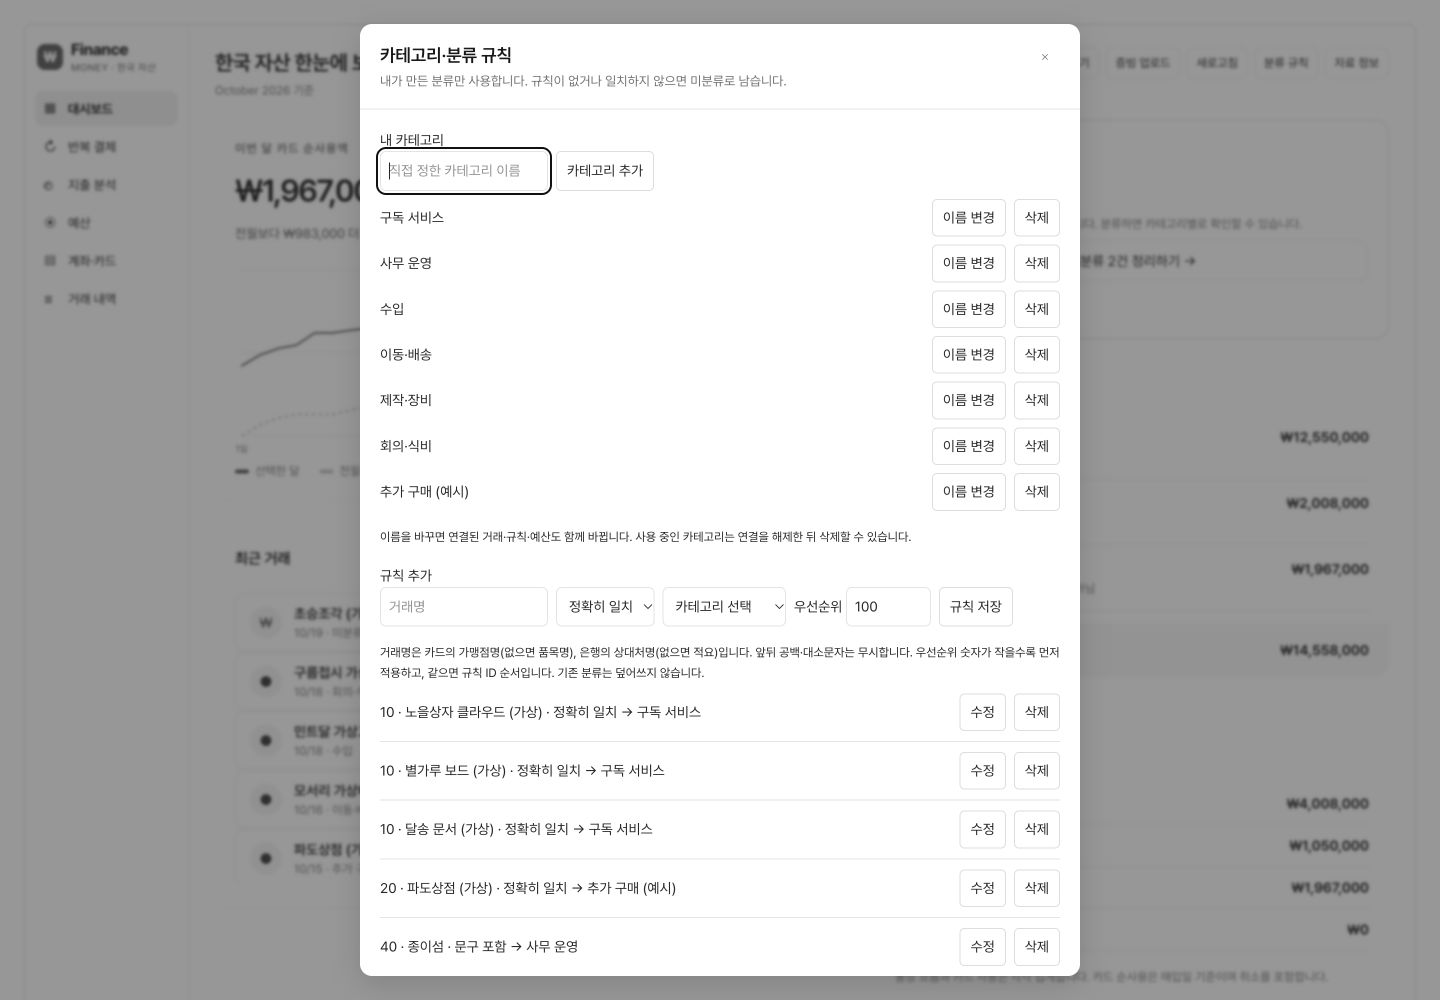
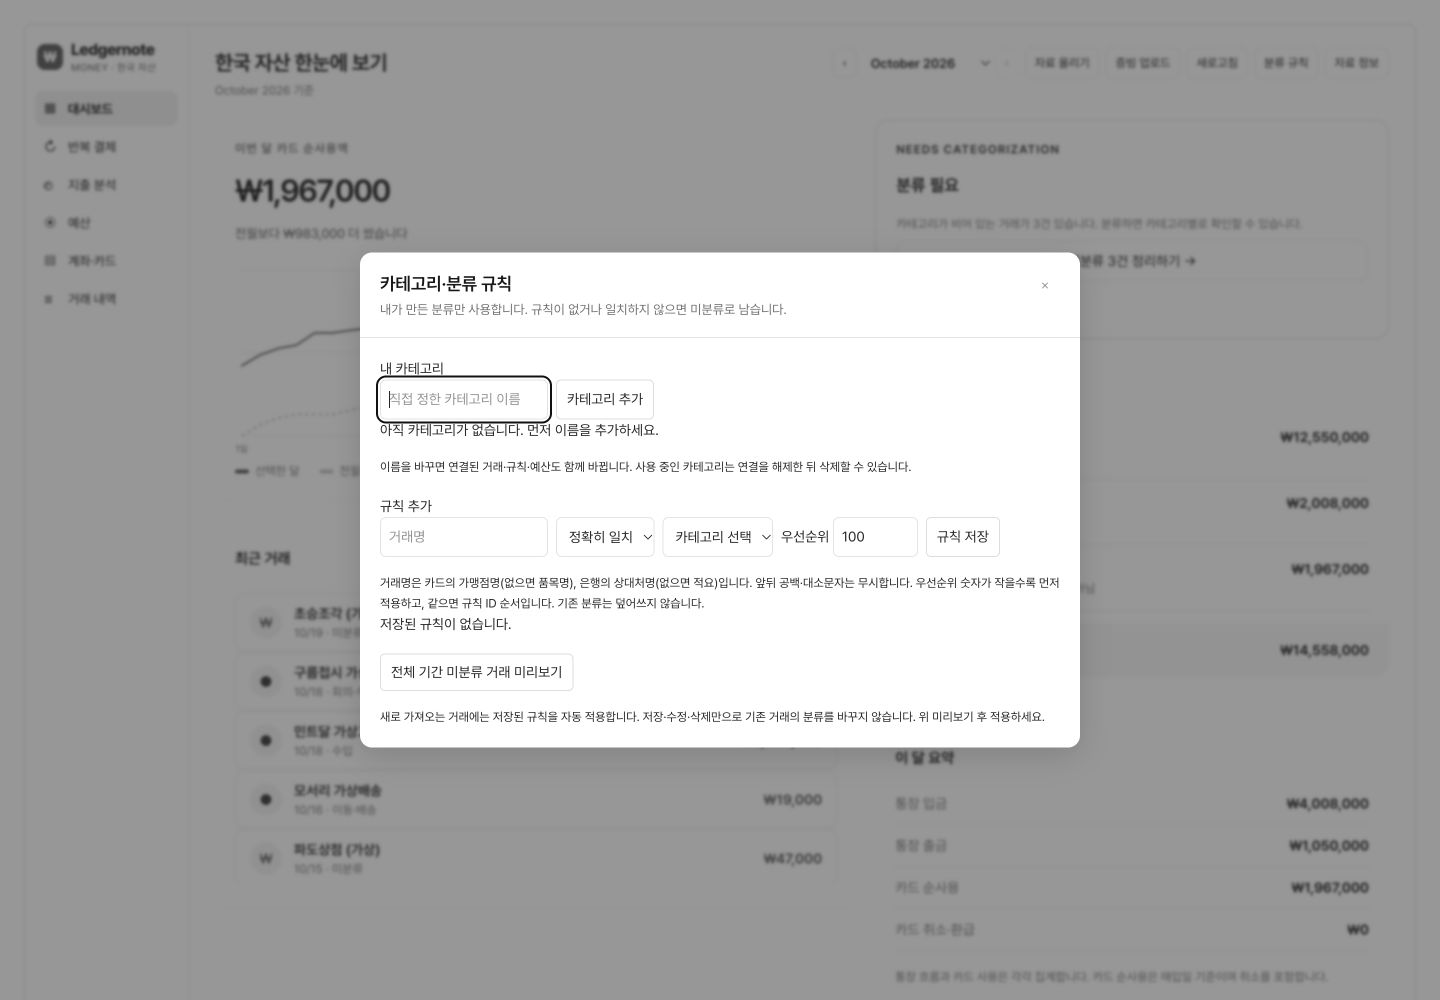
Update Site source

diff --git a/components/finance/FinanceWorkspace.tsx b/components/finance/FinanceWorkspace.tsx
@@ -123,7 +123,7 @@ export function FinanceWorkspace({ initialTab = "home" }: { initialTab?: string 
       const url = URL.createObjectURL(new Blob([JSON.stringify(backup, null, 2)], { type: "application/json" }));
       const link = document.createElement("a"); link.href = url; link.download = `finance-money-backup-${new Date().toISOString().slice(0, 10)}.json`; link.click();
       setTimeout(() => URL.revokeObjectURL(url), 1000);
-    } catch { setExportError("백업을 만들지 못했습니다. 연결과 Finance 조회 권한을 확인해 주세요."); }
+    } catch { setExportError("백업을 만들지 못했습니다. 연결과 Ledgernote 조회 권한을 확인해 주세요."); }
     finally { setExporting(false); }
   }
 
@@ -203,7 +203,7 @@ export function FinanceWorkspace({ initialTab = "home" }: { initialTab?: string 
               />
               <button type="button" onClick={() => { setData(null); setLoadError(false); reload(month); setEvVersion((v) => v + 1); }}>새로고침</button>
               <button type="button" onClick={() => setRulesOpen(true)}>분류 규칙</button>
-              <button type="button" onClick={() => setHelpOpen(true)} aria-label="Finance 사용 안내">자료 정보</button>
+              <button type="button" onClick={() => setHelpOpen(true)} aria-label="Ledgernote 사용 안내">자료 정보</button>
             </>
           }
         >
@@ -231,7 +231,7 @@ export function FinanceWorkspace({ initialTab = "home" }: { initialTab?: string 
       <Modal
         open={helpOpen}
         onClose={() => setHelpOpen(false)}
-        title="Finance 사용 안내"
+        title="Ledgernote 사용 안내"
         size="lg"
         footer={
           <div style={{ display: "flex", justifyContent: "flex-end" }}>

diff --git a/components/finance/MoneyShell.tsx b/components/finance/MoneyShell.tsx
@@ -41,7 +41,7 @@ export function MoneyShell({ nav, onNav, title, subtitle, actions, who, children
       <aside className="money-aside">
         <div className="money-brand">
           <b>₩</b>
-          <div>Finance<small>MONEY · 한국 자산</small></div>
+          <div>Ledgernote<small>MONEY · 한국 자산</small></div>
         </div>
         <nav className="money-nav" aria-label="사업비 메뉴">
           {MONEY_NAV.map((item) => (

diff --git a/app/layout.tsx b/app/layout.tsx
@@ -2,8 +2,8 @@ import type { Metadata } from "next";
 import "./globals.css";
 
 export const metadata: Metadata = {
-  title: "Finance Workspace",
-  description: "거래 · 분류 · 예산 · 증빙 워크스페이스",
+  title: "Ledgernote",
+  description: "Ledgernote · 거래 · 분류 · 예산 · 증빙 워크스페이스",
   other: {
     "codex-preview": "development",
   },

diff --git a/README.md b/README.md
@@ -1,10 +1,10 @@
-# Finance Workspace
+# Ledgernote
 
-본인 은행·카드 명세서를 가져와 거래, 사용자 분류 규칙, 지출과 예산을 관리하는 독립 웹서비스입니다.
+Ledgernote는 본인 은행·카드 명세서를 가져와 거래, 사용자 분류 규칙, 지출과 예산을 관리하는 독립 웹서비스입니다.
 
 [준비 항목](#먼저-준비할-api--계정--데이터) · [로컬 실행](#로컬-실행) · [업무 흐름](#업무-흐름) · [예시 자료](#가상-예시-자료) · [검증과 범위](#검증과-범위)
 
-![Finance 대시보드 실행 화면](docs/images/overview.png)
+![Ledgernote 대시보드 실행 화면](docs/images/overview.png)
 
 *화면의 거래·거래처·계좌·분류·예산은 모두 FICTIONAL 가상 예시입니다. 실제 회사 자료가 아닙니다. 신규 데이터베이스는 비어 있으며 예시 자료를 자동으로 넣지 않습니다.*
 
@@ -71,7 +71,7 @@ OPENAI_MODEL=
 
 카테고리 이름 변경은 연결된 거래·분할·규칙·예산을 함께 갱신합니다. 사용 중인 카테고리는 연결을 해제한 뒤 삭제합니다. 선택적인 AI는 서버에 저장된 본인 거래와 본인 카테고리만 사용하고, 제안 검토 후 적용합니다. AI가 만든 카테고리나 숨은 가맹점 규칙을 저장하지 않습니다.
 
-![사용자 카테고리와 규칙 미리보기](docs/images/classification-rules.png)
+![Ledgernote 사용자 카테고리와 규칙 미리보기](docs/images/classification-rules.png)
 
 *FICTIONAL 가상 예시: 사용자가 만든 카테고리와 정확히 일치하는 규칙을 미리 본 뒤 적용합니다. 실제 회사 자료가 아닙니다.*
 

diff --git a/docs/IMPLEMENTATION-REPORT.md b/docs/IMPLEMENTATION-REPORT.md
@@ -1,4 +1,4 @@
-# Finance implementation report
+# Ledgernote implementation report
 
 ## Final authorized scope
 
@@ -49,3 +49,7 @@ Cleanup was executed after the parent finished both screenshots. All nine local 
 4. AI execution is request-bound rather than Queue-backed; a browser closing can interrupt the client batch and no background retry is claimed. Paid provider results remain unverified.
 5. The screenshot fixture is local only. This agent made no hosted calls, pushes or deployments. Root owns browser QA, screenshots and publication. Production starts empty without an explicitly executed local fixture helper.
 6. No source history, actual company records, aliases, business numbers, operational accounts or API secrets were copied. Source ownership is documented privately; SheetJS/font/starter licenses are retained without relicensing the inherited source.
+
+## Product naming update
+
+The user-facing product is Ledgernote. Browser metadata, sidebar brand, help/error copy, README title/introduction/image descriptions and npm package/lockfile root names use Ledgernote/ledgernote. Internal Finance component, API, schema, folder and demo identifiers remain unchanged. Typecheck, production build and local authenticated SSR/title verification passed after this rename. The bounded fictional fixture was recreated locally on port 5182 for branded screenshot recapture and remains in place until the parent finishes; the active manifest again lists its exact IDs.

diff --git a/docs/FEATURE-PARITY.md b/docs/FEATURE-PARITY.md
@@ -1,4 +1,4 @@
-# Finance final feature scope
+# Ledgernote final feature scope
 
 The latest user scope supersedes the earlier research-finance inventory. The six original core screens retain their layout and underlying ledger behavior. New workspaces have no categories, rules, budgets or transactions.
 
